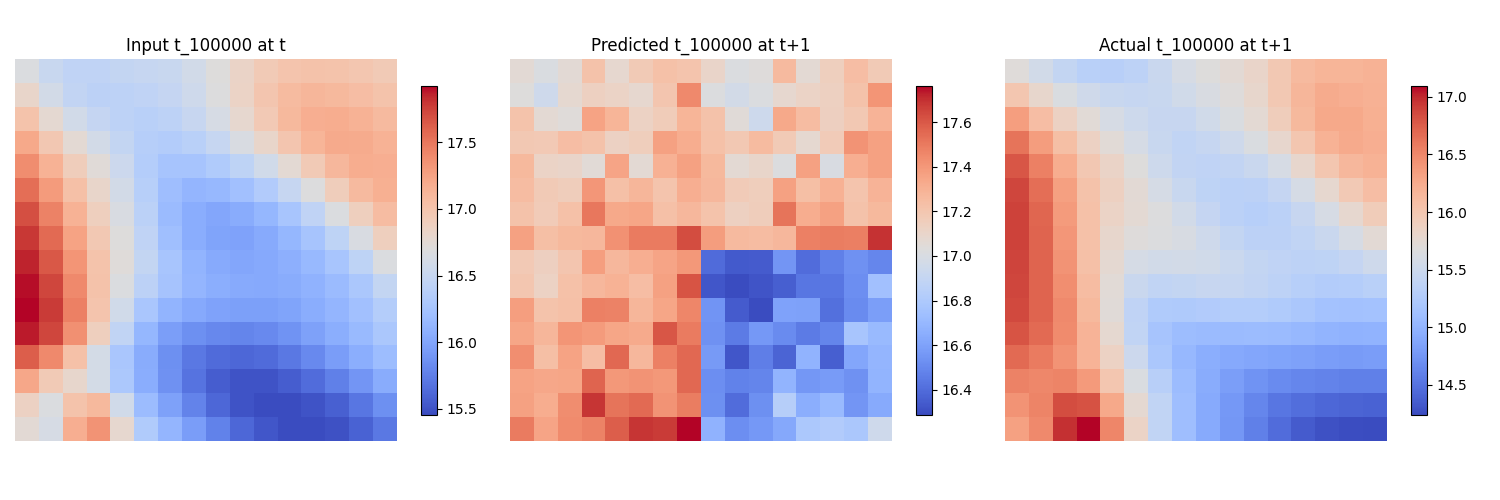
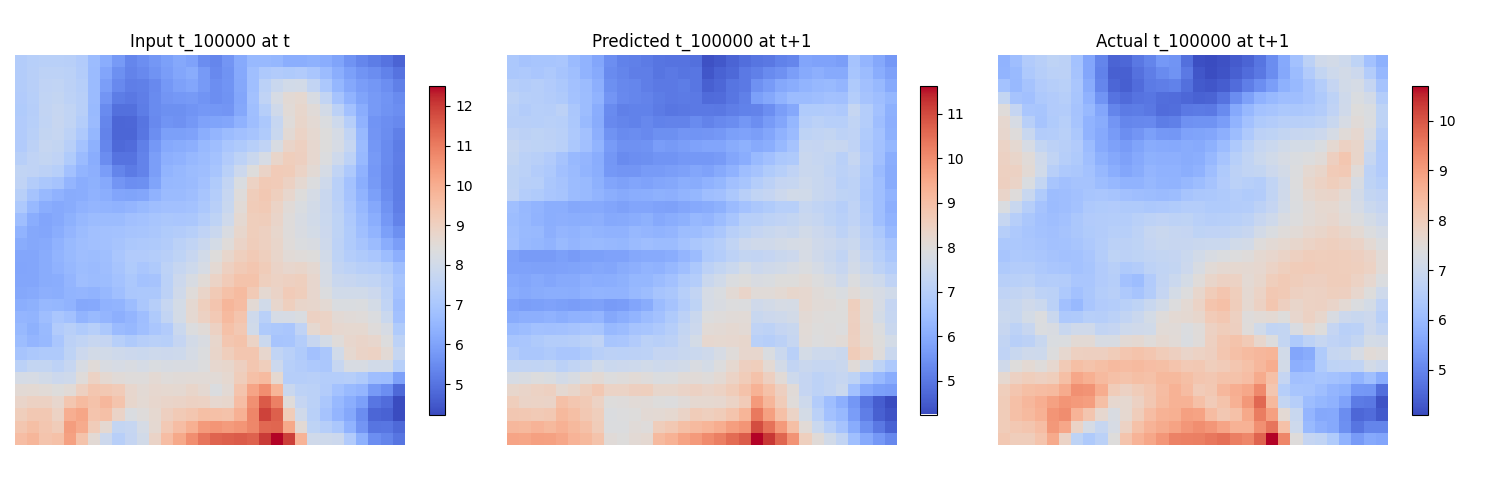
era training

diff --git a/eval_model.py b/eval_model.py
@@ -12,7 +12,7 @@ from train import LitWeatherForecast
 
 
 def plot_loss_curve():
-    metrics_path = "./lightning_logs/simple_weather_vit/version_7/metrics.csv"
+    metrics_path = "./lightning_logs/lightning_logs/version_7/metrics.csv"
     if not os.path.exists(metrics_path):
         raise FileNotFoundError(f"Metrics file not found at {metrics_path}")
     metrics = pd.read_csv(metrics_path)
@@ -43,16 +43,13 @@ def plot_weather_sample():
         "r_100000","r_92500","r_85000","r_70000","r_50000","r_30000","r_20000",
     ]
 
-    # 1) Lade die Normalisierungsparameter
     mean_npz = dict(np.load(os.path.join(root_dir, "normalize_mean.npz")))
     std_npz  = dict(np.load(os.path.join(root_dir, "normalize_std.npz")))
 
-    # Baue arrays in der Variablen-Reihenfolge
     means = np.array([mean_npz[v].item() for v in variables], dtype=float)
     stds  = np.array([std_npz[v].item()  for v in variables], dtype=float)
 
-    # --- Modell laden wie gehabt ---
-    ckpt_path = "./lightning_logs/simple_weather_vit/version_8/checkpoints/simple-wx-vit-epoch=04-val_loss=0.0942.ckpt"
+    ckpt_path = "./lightning_logs/lightning_logs/version_7/checkpoints/epoch=08.ckpt"
     if not os.path.exists(ckpt_path):
         raise FileNotFoundError(f"Checkpoint not found at {ckpt_path}")
     lit_model = LitWeatherForecast.load_from_checkpoint(ckpt_path)
@@ -78,18 +75,15 @@ def plot_weather_sample():
         t_int  = torch.ones(x.size(0), device=device)
         y_pred = model(x, variables, t_int)
 
-    # Extrahiere das t_100000-Feld
     idx = variables.index("t_100000")
     input_n = x[0,    idx].cpu().numpy()
     pred_n  = y_pred[0, idx].cpu().numpy()
     true_n  = y[0,    idx].cpu().numpy()
 
-    # 2) Inverse Normalize:  x_norm = (x - mean)/std  →  x = x_norm * std + mean
     input_field = input_n * stds[idx] + means[idx]
     pred_field  = pred_n  * stds[idx] + means[idx]
     true_field  = true_n  * stds[idx] + means[idx]
 
-    # 3) Plotte alle drei in einer Abbildung
     fig, axes = plt.subplots(1, 3, figsize=(15, 5))
     titles = ['Input t_100000 at t', 'Predicted t_100000 at t+1', 'Actual t_100000 at t+1']
     fields = [input_field, pred_field, true_field]

diff --git a/train.py b/train.py
@@ -78,7 +78,7 @@ if __name__ == "__main__":
     batch_size = 12
     test_batch_size = 12
     list_train_intervals = [(0, 1)]
-    img_size = (16, 16)
+    img_size = (32, 32)
     patch_size = 4
     embed_dim = 512
     depth = 6
